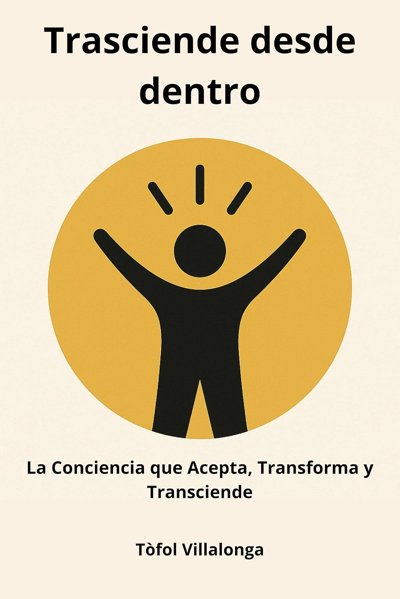
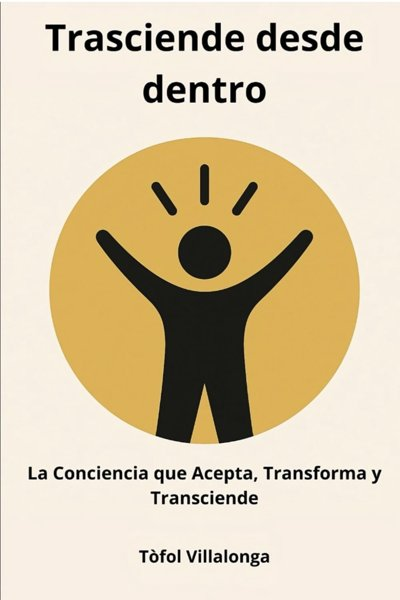
Portada: retrat de Tòfol al despatx, targeta de les apps amb la il·lustració AIS i coberta millorada
Claude-Session: https://claude.ai/code/session_01H85ujS658t17zyaYxZ41Wq

diff --git a/portada/portada.js b/portada/portada.js
@@ -14,7 +14,7 @@ const T = {
     appEt: "Para pacientes", appT: "App APRENS", appD: "Las herramientas de terapia (AIS, TEC, registros y prácticas) en tu móvil. Lo que apuntas se queda en tu dispositivo.",
     citaEt: "Consulta", citaT: "Pedir cita", citaD: "Elige día y hora en Doctoralia, para una primera visita o una sesión.",
     consEt: "Gabinete", consT: "La consulta: aprens.es", consD: "Terapias, equipo, servicios y contacto del gabinete de Inca.",
-    expEt: "Estudio", appstore: "Apps para iPhone en la App Store:", expD: "Una herramienta para organizar los apuntes, repasar con preguntas y corregir ejercicios.",
+    expEt: "Estudio", appsT: "Apps para iPhone", appsD: "Sesiones guiadas de Atención Interna Sensorial (AIS): llevar la atención al cuello, al pecho y a la barriga para bajar la alerta y estar con uno mismo.", retratAlt: "Tòfol Villalonga en el despacho de APRENS, en Inca", appAlt: "Ilustración de la app: una silueta con tres puntos donde llevar la atención. 1, cuello: conecta con tu garganta y nuca. 2, pecho: siente tu corazón y pulmones. 3, barriga: percibe tu estómago e intestinos.", expD: "Una herramienta para organizar los apuntes, repasar con preguntas y corregir ejercicios.",
     novetats: "Novedades y apariciones", llibres: "Libros", fotos: "El despacho y el día a día", contacte: "Contacto",
     horari: "Horario: de 9 a 21 h", avis: "Aviso legal y privacidad", galetes: "Esta web no usa cookies ni analítica.",
     tot: "Todo", mitjans: "En los medios", llibre: "Libros", novetat: "Novedades", article: "Artículos",
@@ -27,6 +27,7 @@ let lang = "ca", data = null, filtre = "";
 try { const s = localStorage.getItem("aprens:idioma"); lang = s === "es" || s === "ca" ? s : (navigator.language || "").toLowerCase().startsWith("es") ? "es" : "ca"; } catch {}
 const ca = {};
 document.querySelectorAll("[data-t]").forEach(el => { ca[el.dataset.t] = el.textContent; });
+document.querySelectorAll("[data-alt]").forEach(el => { ca[el.dataset.alt] = el.alt; });
 const t = (k) => (lang === "es" ? T.es[k] : ca[k]) ?? ({tot: "Tot", disponible: "Disponible", properament: "Properament", llegir: "Més informació", comprar: "On comprar-lo"}[k] ?? CAT[k] ?? k);
 // Un text del contingut pot ser "text" o {"ca": ..., "es": ...}
 const tx = (v) => v && typeof v === "object" ? (v[lang] || v.ca || v.es || "") : (v || "");
@@ -41,6 +42,7 @@ const dataLlarga = (d) => {
 function pinta() {
   document.documentElement.lang = lang;
   document.querySelectorAll("[data-t]").forEach(el => { el.textContent = t(el.dataset.t); });
+  document.querySelectorAll("[data-alt]").forEach(el => { el.alt = t(el.dataset.alt); });
   document.querySelectorAll(".idioma button").forEach(b => b.setAttribute("aria-pressed", String(b.dataset.lang === lang)));
   if (!data) return;
   const L = data.enllacos || {};
@@ -48,7 +50,7 @@ function pinta() {
   if (safeUrl(L.cita)) $("#l-cita").href = safeUrl(L.cita);
   const apps = (data.apps || []).filter(a => a.nom && safeUrl(a.url));
   $("#appstore").hidden = !apps.length;
-  $("#l-apps").innerHTML = apps.map(a => `<a href="${esc(safeUrl(a.url))}" rel="noopener noreferrer">${esc(tx(a.nom))} →</a>`).join(" · ");
+  $("#l-apps").innerHTML = apps.map(a => `<a href="${esc(safeUrl(a.url))}" rel="noopener noreferrer">${esc(tx(a.nom))} →</a>`).join("");
   // Xarxes: només enllaços (res incrustat, perquè la portada no carregui res de fora).
   const xs = [["instagram", "Instagram"], ["facebook", "Facebook (Tòfol)"], ["facebook_aprens", "Facebook (APRENS)"]].filter(([k]) => safeUrl(L[k]));
   $("#xarxes").hidden = !xs.length;

diff --git a/portada/index.html b/portada/index.html
@@ -19,8 +19,11 @@
 
 <main>
   <section class="hero">
-    <h1 data-t="h1">Un lloc on trobar les eines, la consulta i les novetats d'APRENS</h1>
-    <p data-t="intro">APRENS és el gabinet de psicologia de Tòfol Villalonga a Inca. Des d'aquí pots entrar a les eines que feim servir a teràpia, demanar cita o conèixer la consulta, i seguir el que anam publicant.</p>
+    <div class="hero-text">
+      <h1 data-t="h1">Un lloc on trobar les eines, la consulta i les novetats d'APRENS</h1>
+      <p data-t="intro">APRENS és el gabinet de psicologia de Tòfol Villalonga a Inca. Des d'aquí pots entrar a les eines que feim servir a teràpia, demanar cita o conèixer la consulta, i seguir el que anam publicant.</p>
+    </div>
+    <img class="retrat" src="img/tofol-despatx.jpg" width="638" height="1000" alt="Tòfol Villalonga al despatx d'APRENS, a Inca" data-alt="retratAlt">
   </section>
 
   <section aria-labelledby="t-entrades">
@@ -47,7 +50,14 @@
         <span data-t="expD">Una eina per organitzar els apunts, repassar amb preguntes i corregir exercicis.</span>
       </a>
     </div>
-    <p class="extra" id="appstore" hidden><span data-t="appstore">Apps per a iPhone a l'App Store:</span> <span id="l-apps"></span></p>
+    <div class="apps" id="appstore" hidden>
+      <img src="img/app-ais-sessio.jpg" width="360" height="510" alt="Il·lustració de l'app: una silueta amb tres punts on portar l'atenció. 1, coll: connecta amb la gola i el clatell. 2, pit: sent el cor i els pulmons. 3, panxa: percep l'estómac i els budells." data-alt="appAlt" loading="lazy">
+      <div>
+        <h3 data-t="appsT">Apps per a iPhone</h3>
+        <p data-t="appsD">Sessions guiades d'Atenció Interna Sensorial (AIS): portar l'atenció al coll, al pit i a la panxa per baixar l'alerta i estar amb un mateix.</p>
+        <p class="enllacos" id="l-apps"></p>
+      </div>
+    </div>
   </section>
 
   <section id="s-novetats" aria-labelledby="t-novetats" hidden>

diff --git a/portada/portada.css b/portada/portada.css
@@ -25,7 +25,10 @@ p{margin:0}
 .idioma button[aria-pressed=true]{background:var(--blau);color:var(--on-blau)}
 
 main{max-width:1080px;margin:0 auto;padding:8px max(16px,env(safe-area-inset-left,0px)) 40px;display:flex;flex-direction:column;gap:44px}
-.hero{border-top:6px solid var(--verd);padding-top:22px;display:flex;flex-direction:column;gap:14px;max-width:760px}
+.hero{border-top:6px solid var(--verd);padding-top:22px;display:grid;grid-template-columns:minmax(0,1fr) 240px;gap:28px;align-items:center}
+.hero-text{display:flex;flex-direction:column;gap:14px;max-width:760px}
+.retrat{width:100%;height:auto;border-radius:18px;box-shadow:0 10px 30px rgb(0 0 0 / .12)}
+@media (max-width:640px){.hero{grid-template-columns:1fr}.retrat{max-width:220px}}
 .hero p{font-size:1.1rem;color:var(--muted)}
 
 .portes{display:grid;grid-template-columns:repeat(auto-fit,minmax(230px,1fr));gap:14px}
@@ -70,4 +73,9 @@ footer{max-width:1080px;margin:0 auto;padding:20px max(16px,env(safe-area-inset-
 html[lang=es] .es-only{display:block} html[lang=es] .ca-only{display:none}
 .llibre .enllacos{display:flex;gap:14px;flex-wrap:wrap}
 .autor{margin-top:14px;font-weight:600;display:flex;flex-wrap:wrap;gap:8px 22px}
-.extra{margin-top:12px;font-weight:600}
+.apps{margin-top:16px;display:flex;gap:18px;align-items:center;background:var(--card);border:1px solid var(--line);border-radius:16px;padding:16px}
+.apps img{width:120px;height:auto;border-radius:14px;flex:none}
+.apps h3{margin-bottom:4px}
+.apps p{color:var(--muted);font-size:.95rem}
+.apps .enllacos{display:flex;flex-wrap:wrap;gap:6px 18px;margin-top:8px;font-weight:600}
+@media (max-width:480px){.apps{flex-direction:column;align-items:flex-start}}
